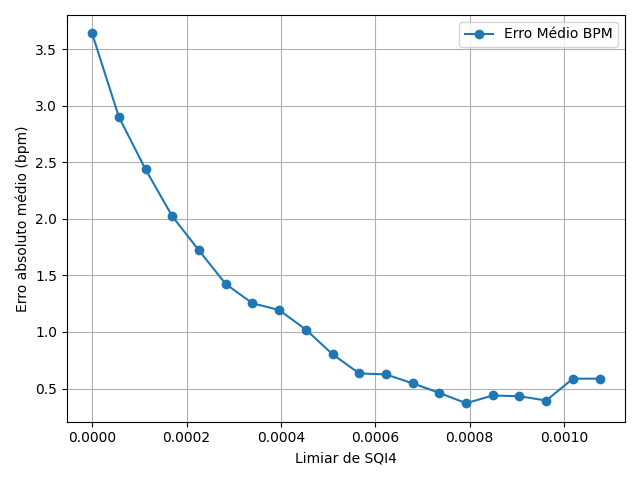
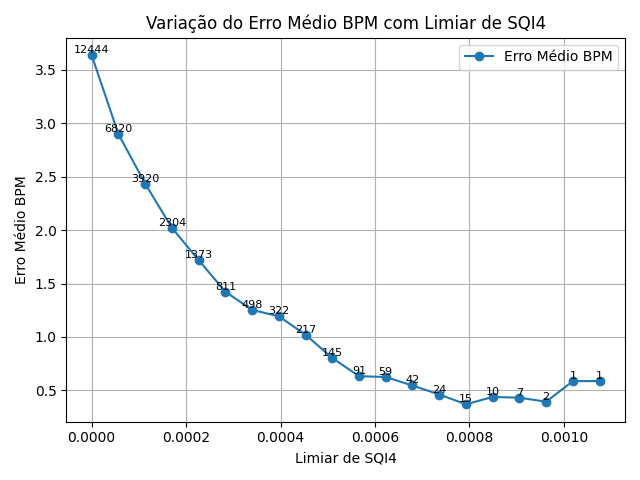
ok

diff --git a/06-01-Resultados/analise_coletiva.py b/06-01-Resultados/analise_coletiva.py
@@ -89,22 +89,26 @@ def generate_collective_plots(df, output_folder):
     sqi_columns = [col for col in df.columns if col.startswith("SQI")]
 
     for sqi_col in sqi_columns:
-        # Inicializar listas para armazenar os erros médios
+        # Inicializar listas para armazenar os erros médios e o número de amostras
         sqi_thresholds = np.linspace(df[sqi_col].min(), df[sqi_col].max(), 20)
         bpm_errors = []
         irpm_errors = []
+        num_samples = []
 
         for threshold in sqi_thresholds:
             filtered_df = df[df[sqi_col] >= threshold]
             bpm_errors.append(filtered_df['Error_BPM_Abs'].mean())
             irpm_errors.append(filtered_df['Error_iRPM_Abs'].mean())
+            num_samples.append(len(filtered_df))
 
         # Gráfico de erros médios para BPM
         plt.figure()
         plt.plot(sqi_thresholds, bpm_errors, marker='o', label=f'Erro Médio BPM')
-        plt.title(f'')
+        for i, (x, y, n) in enumerate(zip(sqi_thresholds, bpm_errors, num_samples)):
+            plt.text(x, y, f'{n}', fontsize=8, ha='center', va='bottom')  # Adiciona o número de amostras
+        plt.title(f'Variação do Erro Médio BPM com Limiar de {sqi_col}')
         plt.xlabel(f'Limiar de {sqi_col}')
-        plt.ylabel('Erro absoluto médio (bpm)')
+        plt.ylabel('Erro Médio BPM')
         plt.grid(True)
         plt.legend()
         plt.tight_layout()
@@ -114,6 +118,8 @@ def generate_collective_plots(df, output_folder):
         # Gráfico de erros médios para iRPM
         plt.figure()
         plt.plot(sqi_thresholds, irpm_errors, marker='o', color='orange', label=f'Erro Médio iRPM')
+        for i, (x, y, n) in enumerate(zip(sqi_thresholds, irpm_errors, num_samples)):
+            plt.text(x, y, f'{n}', fontsize=8, ha='center', va='bottom')  # Adiciona o número de amostras
         plt.title(f'Variação do Erro Médio iRPM com Limiar de {sqi_col}')
         plt.xlabel(f'Limiar de {sqi_col}')
         plt.ylabel('Erro Médio iRPM')
